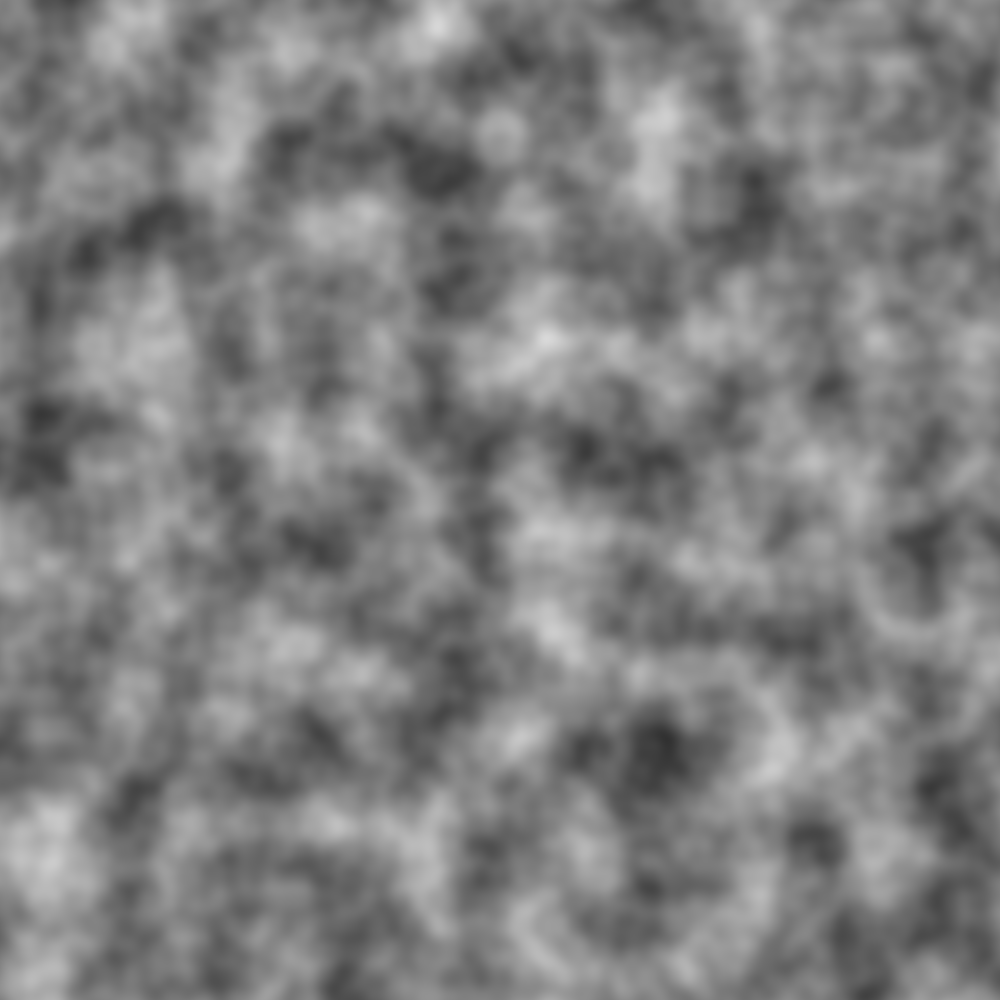
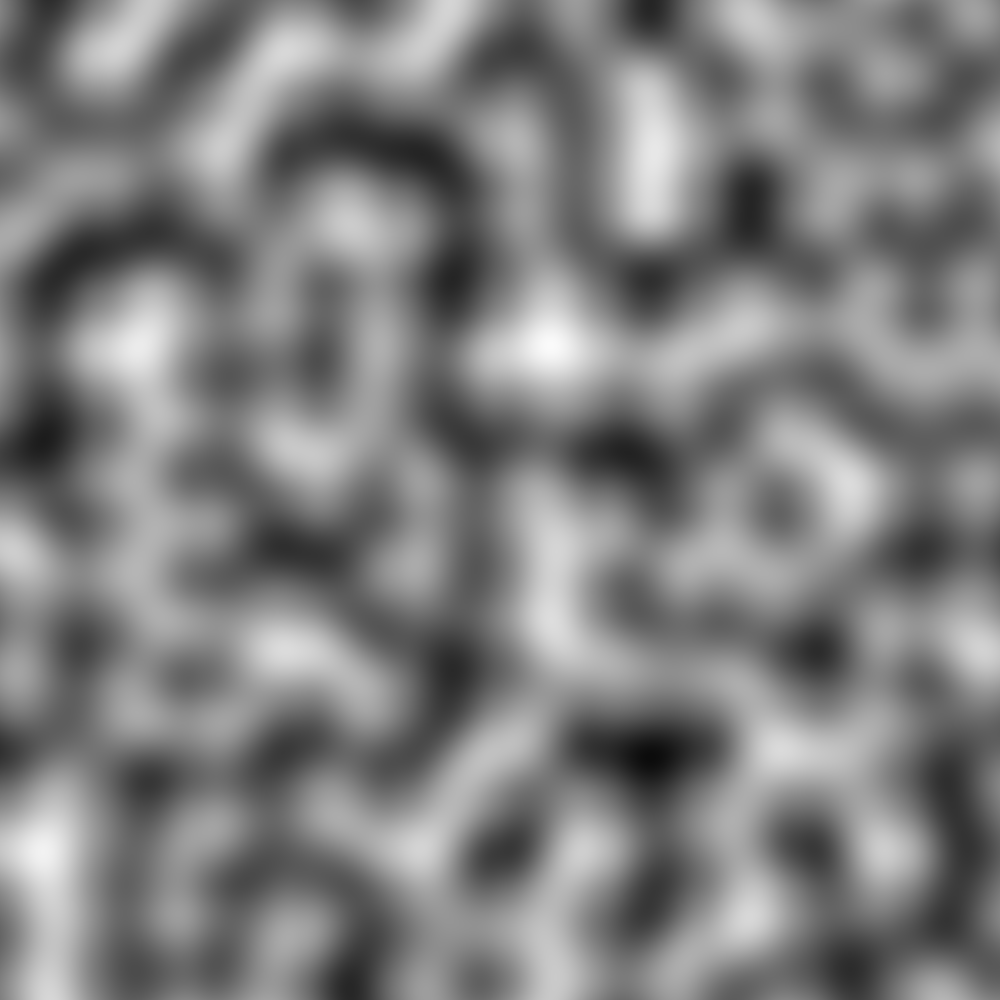
add Biome Dictionary

diff --git a/src/ImageGenerator.cs b/src/ImageGenerator.cs
@@ -1,5 +1,6 @@
 using static System.Console;
 using SkiaSharp;
+using Biomes;
 
 namespace PerlinNoise;
 
@@ -7,8 +8,9 @@ public class ImageGenerator
 {
     private const string 
         perlinNoise = "PerlinNoise", randomNoise = "RandomNoise", 
-        fractalNoise = "FractalNoise", worleyNoise = "WorleyNoise";
-    public static string[] Types { get; } = [perlinNoise, randomNoise, fractalNoise, worleyNoise];
+        fractalNoise = "FractalNoise", worleyNoise = "WorleyNoise",
+        biomeNoise = "BiomeNoise";
+    public static string[] Types { get; } = [perlinNoise, randomNoise, fractalNoise, worleyNoise, biomeNoise];
     public static void GenerateImage(string type)
     {
         int size = 1000;
@@ -31,9 +33,11 @@ public class ImageGenerator
                 FastNoiseLite fractalState = new();
                 fractalState.SetNoiseType(FastNoiseLite.NoiseType.Perlin);
                 fractalState.SetSeed(1);
-                fractalState.SetFractalType(FastNoiseLite.FractalType.FBm);
-                fractalState.SetFractalOctaves(3);
+                fractalState.SetFractalType(FastNoiseLite.FractalType.None);
+                fractalState.SetFractalOctaves(6);
                 fractalState.SetFrequency(0.01f);
+                fractalState.SetFractalLacunarity(1.5f);
+                fractalState.SetFractalGain(0.5f);
                 noise = GenerateFastNoiseLite(fractalState, size);
                 break;
             case worleyNoise:
@@ -43,10 +47,12 @@ public class ImageGenerator
                 worleyState.SetCellularReturnType(FastNoiseLite.CellularReturnType.Distance2);
                 noise = GenerateFastNoiseLite(worleyState, size);
                 break;
+            case biomeNoise:
+                noise = BiomeGen.GenerateBiomeMap(size, 2);
+                break;
             default:
                 break;
         }
-        
         //visualize map on black and white pixels
         SKBitmap bitmap = new(size, size);
         for (int i = 0; i < size; i++)

diff --git a/src/Biomes/BiomesDic.cs b/src/Biomes/BiomesDic.cs
@@ -1,0 +1,31 @@
+using System;
+using System.Collections.Generic;
+using Biomes;
+
+public class BiomesDic 
+{
+    private static Dictionary<Type, Biome>? Biomes;
+    private static void InitializeBiomes()
+    {
+        Biomes = new Dictionary<Type, Biome>
+        {
+            // Add your biomes and their corresponding values here
+            [typeof(Desert)] = new Desert(),
+            [typeof(Jungle)] = new Jungle(),
+            [typeof(Savanna)] = new Savanna(),
+            [typeof(Taiga)] = new Taiga(),
+            [typeof(Tundra)] = new Tundra()
+        };
+    }
+    public static Biome? GetBiome(Type type)
+    {
+        if (Biomes == null)
+        {
+            InitializeBiomes();
+        }
+        
+        return Biomes!.TryGetValue(type, out var biome)? biome : throw new Exception("Biome not found");
+        
+    }
+    
+}

diff --git a/src/Biomes/BiomeGen.cs b/src/Biomes/BiomeGen.cs
@@ -1,5 +1,23 @@
+
 namespace Biomes;
 public class BiomeGen
 {
+    internal static float[,] GenerateBiomeMap(int size, int seed)
+    {
+        FastNoiseLite noise = new FastNoiseLite(seed);
+        noise.SetNoiseType(FastNoiseLite.NoiseType.OpenSimplex2);
+        noise.SetFrequency(0.001f);
 
+        float[,] noiseData = new float[size, size];
+
+        for (int i = 0; i < size; i++)
+        {
+            for (int j = 0; j < size; j++)
+            {
+                
+                noiseData[i, j] = noise.GetNoise(i, j);
+            }
+        }
+        return noiseData;
+    }
 }

diff --git a/src/Biomes/Savanna.cs b/src/Biomes/Savanna.cs
@@ -1,14 +1,6 @@
 namespace Biomes;
 
-public class Savanna : IBiome
+public class Savanna : Biome
 {
-    public float2 GetHumidityRange()
-    {
-        throw new NotImplementedException();
-    }
-
-    public float2 GetTemperatureRange()
-    {
-        throw new NotImplementedException();
-    }
+    
 }

diff --git a/src/Biomes/Taiga.cs b/src/Biomes/Taiga.cs
@@ -1,14 +1,6 @@
 namespace Biomes;
 
-public class Taiga : IBiome
+public class Taiga : Biome
 {
-    public float2 GetHumidityRange()
-    {
-        throw new NotImplementedException();
-    }
-
-    public float2 GetTemperatureRange()
-    {
-        throw new NotImplementedException();
-    }
+        
 }

diff --git a/src/Biomes/Desert.cs b/src/Biomes/Desert.cs
@@ -1,14 +1,6 @@
 namespace Biomes;
 
-public class Desert : IBiome
+public class Desert : Biome
 {
-    public float2 GetHumidityRange()
-    {
-        throw new NotImplementedException();
-    }
-
-    public float2 GetTemperatureRange()
-    {
-        throw new NotImplementedException();
-    }
+    
 }

diff --git a/src/Biomes/Jungle.cs b/src/Biomes/Jungle.cs
@@ -1,14 +1,6 @@
 namespace Biomes;
 
-public class Jungle : IBiome
+public class Jungle : Biome
 {
-    public float2 GetHumidityRange()
-    {
-        throw new NotImplementedException();
-    }
-
-    public float2 GetTemperatureRange()
-    {
-        throw new NotImplementedException();
-    }
+    
 }

diff --git a/src/Biomes/Tundra.cs b/src/Biomes/Tundra.cs
@@ -1,14 +1,6 @@
 namespace Biomes;
 
-public class Tundra : IBiome
+public class Tundra : Biome
 {
-    public float2 GetHumidityRange()
-    {
-        throw new NotImplementedException();
-    }
-
-    public float2 GetTemperatureRange()
-    {
-        throw new NotImplementedException();
-    }
+    
 }

diff --git a/src/float2.cs b/src/float2.cs
@@ -8,4 +8,9 @@ public struct float2
         x = f.x;
         y = f.y;
     }
+    public float2(float x, float y)
+    {
+        this.x = x;
+        this.y = y;
+    }
 }

diff --git a/src/Biomes/Biome.cs b/src/Biomes/Biome.cs
@@ -1,0 +1,7 @@
+namespace Biomes;
+
+public abstract class Biome
+{
+    public float2 temperatureRange;
+    public float2 humidityRange;
+}
